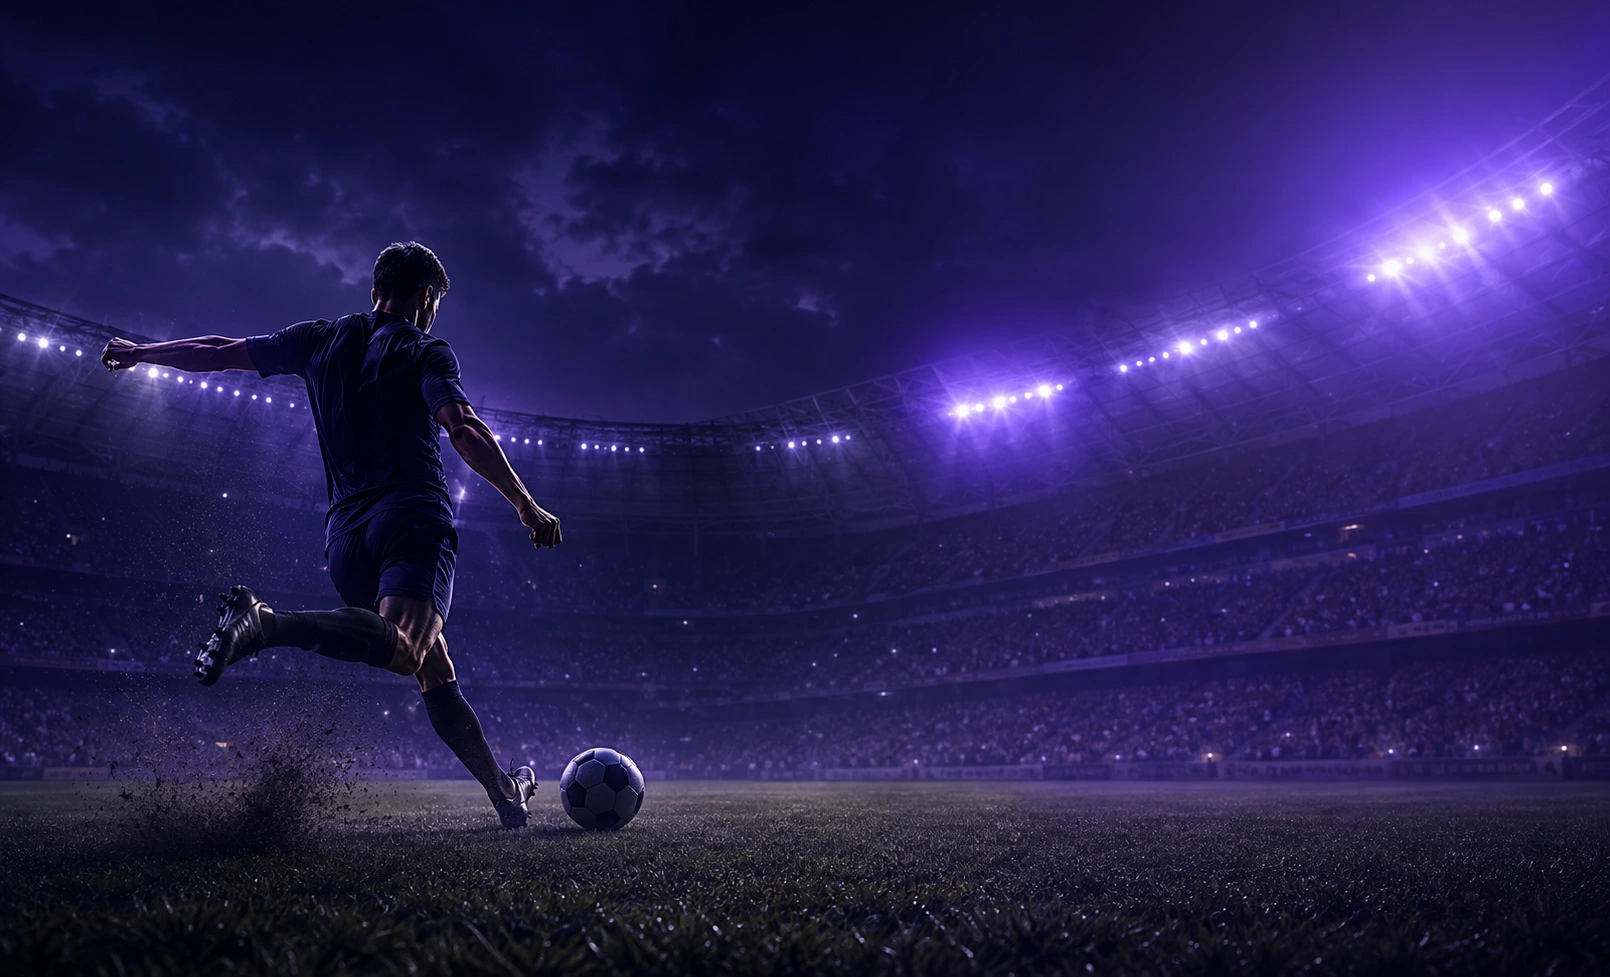
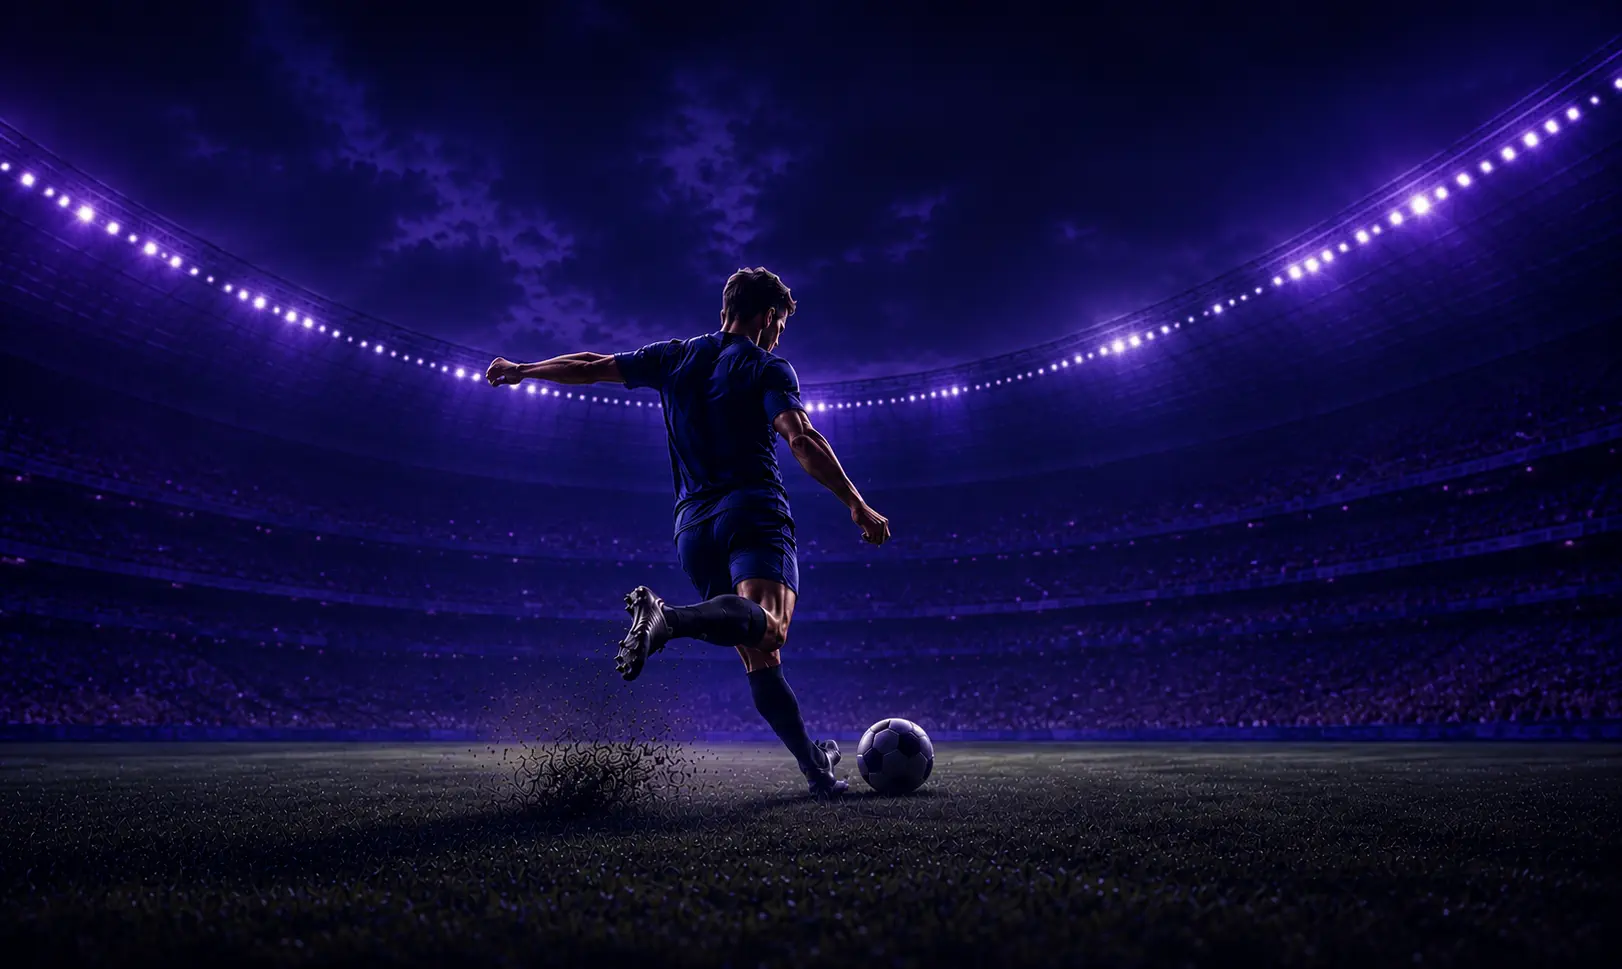
chore: finalize player demo login visual checkpoint

diff --git a/PROJECT_STATUS.md b/PROJECT_STATUS.md
@@ -1,6 +1,8 @@
 # PROJECT STATUS
 
-**Login/Register visual refresh (2026-08-20, checkpoint listo):** ambas pantallas comparten ahora la paleta violeta/azul oscura del PLAYER. Corregida la causa del contraste roto de Registro: usaba variables `--pp-login-*` fuera del scope `.pp-login`. Integrada la imagen definitiva generada para PlayPredict como `frontend/public/assets/login-football.webp` (1610×977, 222508 bytes), sin superponer la escena SVG anterior; Registro conserva su aspecto aprobado. Autofill oscuro preservado. `tsc`, build, asset/health HTTP, tests API y capturas headless 1366×768/1920×1080 OK. Informe: `docs/ai/codex/2026-08-20_LOGIN_REGISTER_visual-refresh.md`.
+**Checkpoint PLAYER demo + Login definitivo (2026-08-20):** circuito PLAYER demo validado de punta a punta. Pronósticos quedó aprobado manualmente — estados, guardado, eliminación, persistencia y navegación ENTER— y no debe modificarse salvo necesidad estricta de compilación. Login y Registro quedaron visualmente aprobados en 1366×768 y 1920×1080. El Login utiliza exclusivamente `frontend/public/assets/login-football.webp`, convertido desde la imagen aprobada sin recorte, reescala ni cambios de composición (1622×969); textos, formulario y publicidad continúan como HTML/CSS. Este checkpoint es la base estable desde la cual se continuará el trabajo en la PC de Trabajo, rama `prueba-glm-ui`.
+
+**Login/Register visual refresh (2026-08-20, checkpoint listo):** ambas pantallas comparten ahora la paleta violeta/azul oscura del PLAYER. Corregida la causa del contraste roto de Registro: usaba variables `--pp-login-*` fuera del scope `.pp-login`. Integrada la imagen definitiva generada para PlayPredict como `frontend/public/assets/login-football.webp` (1622×969, 78704 bytes), sin superponer la escena SVG anterior; Registro conserva su aspecto aprobado. Autofill oscuro preservado. `tsc`, build, asset/health HTTP, tests API y capturas headless 1366×768/1920×1080 OK. Informe: `docs/ai/codex/2026-08-20_LOGIN_REGISTER_visual-refresh.md`.
 
 **PLAYER — Ajustes UX finales (2026-08-20, sin commit):** sidebar renombrado/reordenado a Inicio → Competencias Oficiales → Mis Ligas → Ranking General → Fixture, conservando ruta y título completo de Explorar. Resultados muestra por Round una fecha o rango calendario calculado desde todos sus partidos, con formato argentino y zona Buenos Aires. Pronósticos queda cerrado y sin cambios de lógica. `tsc` y build OK; prueba visual final pendiente. Informe: `docs/ai/codex/2026-08-20_PLAYER_ajustes-ux-finales.md`.
 
